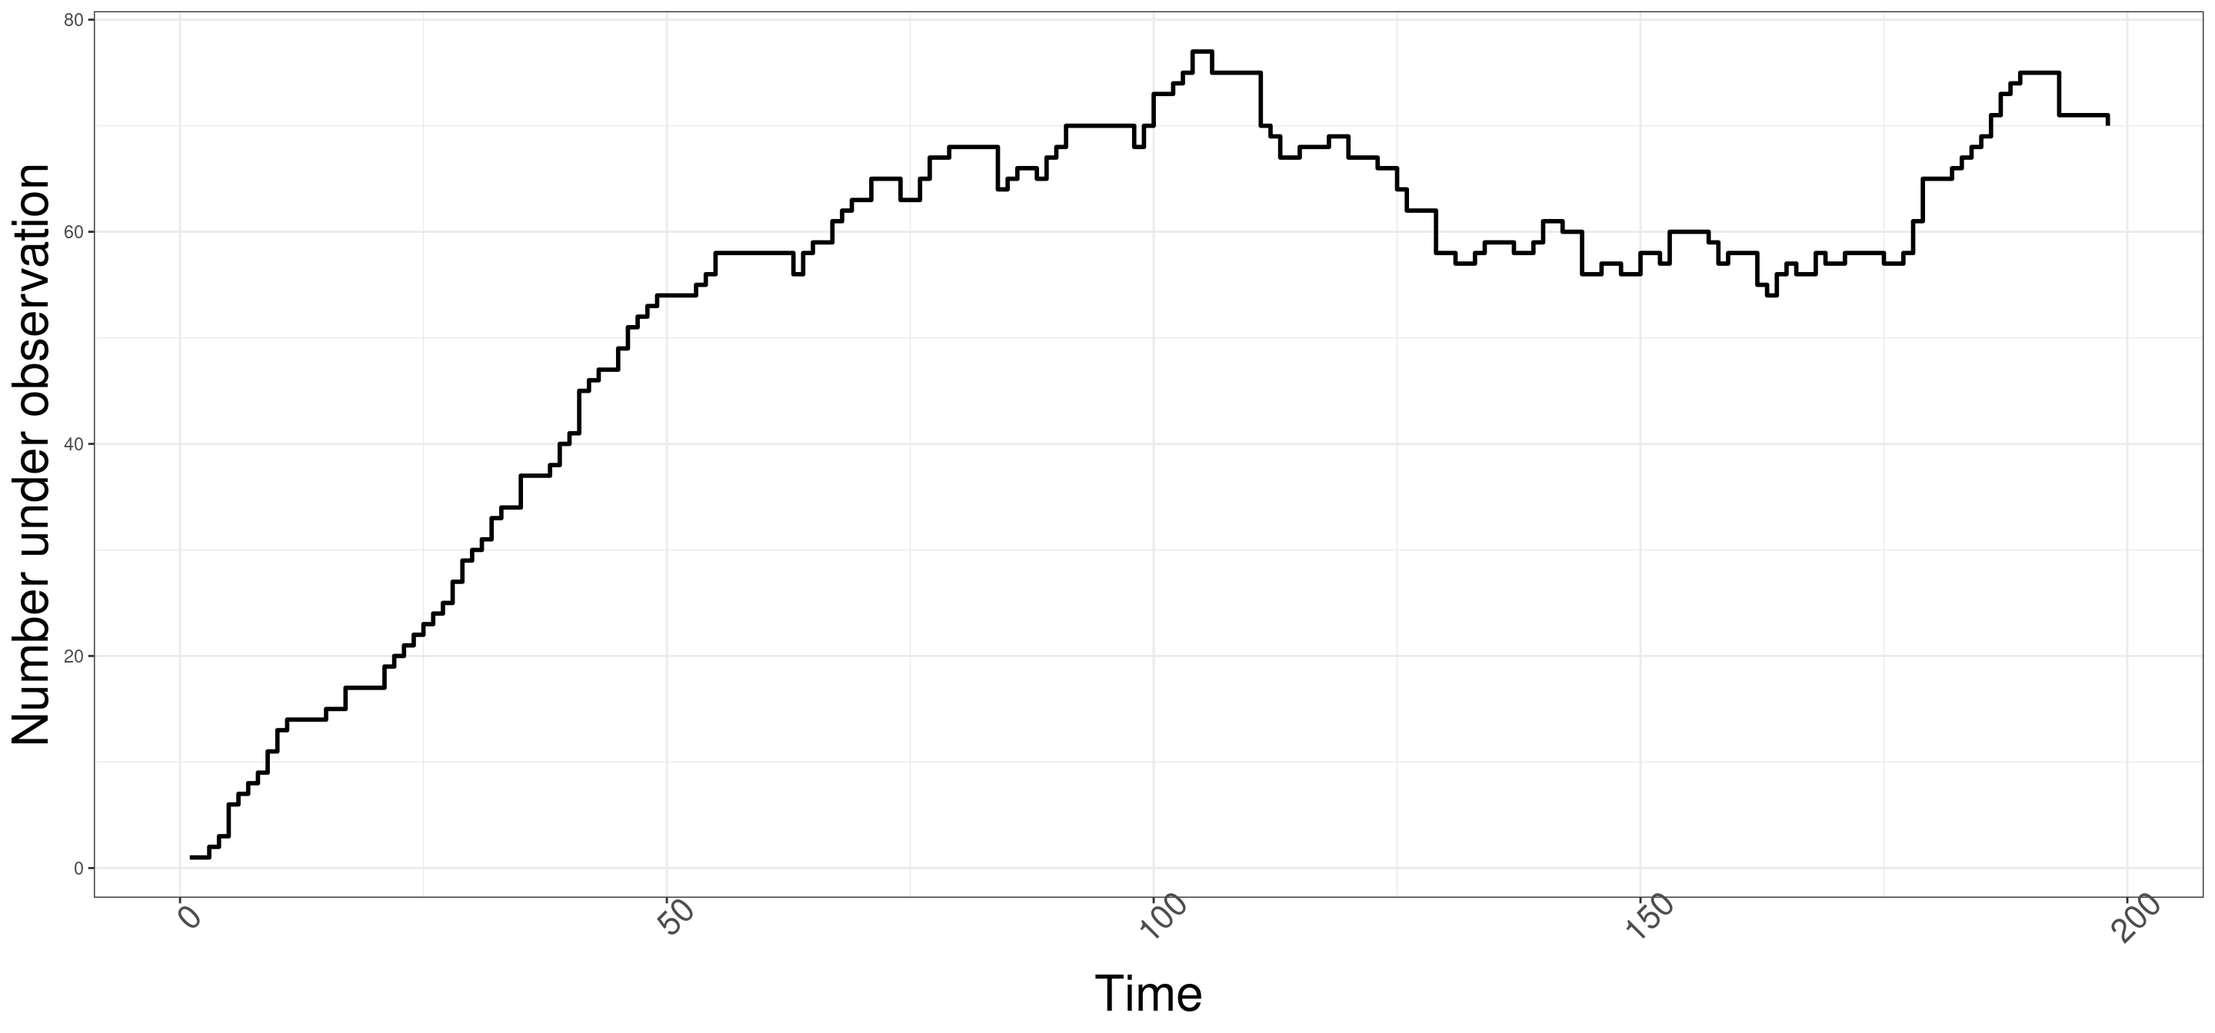
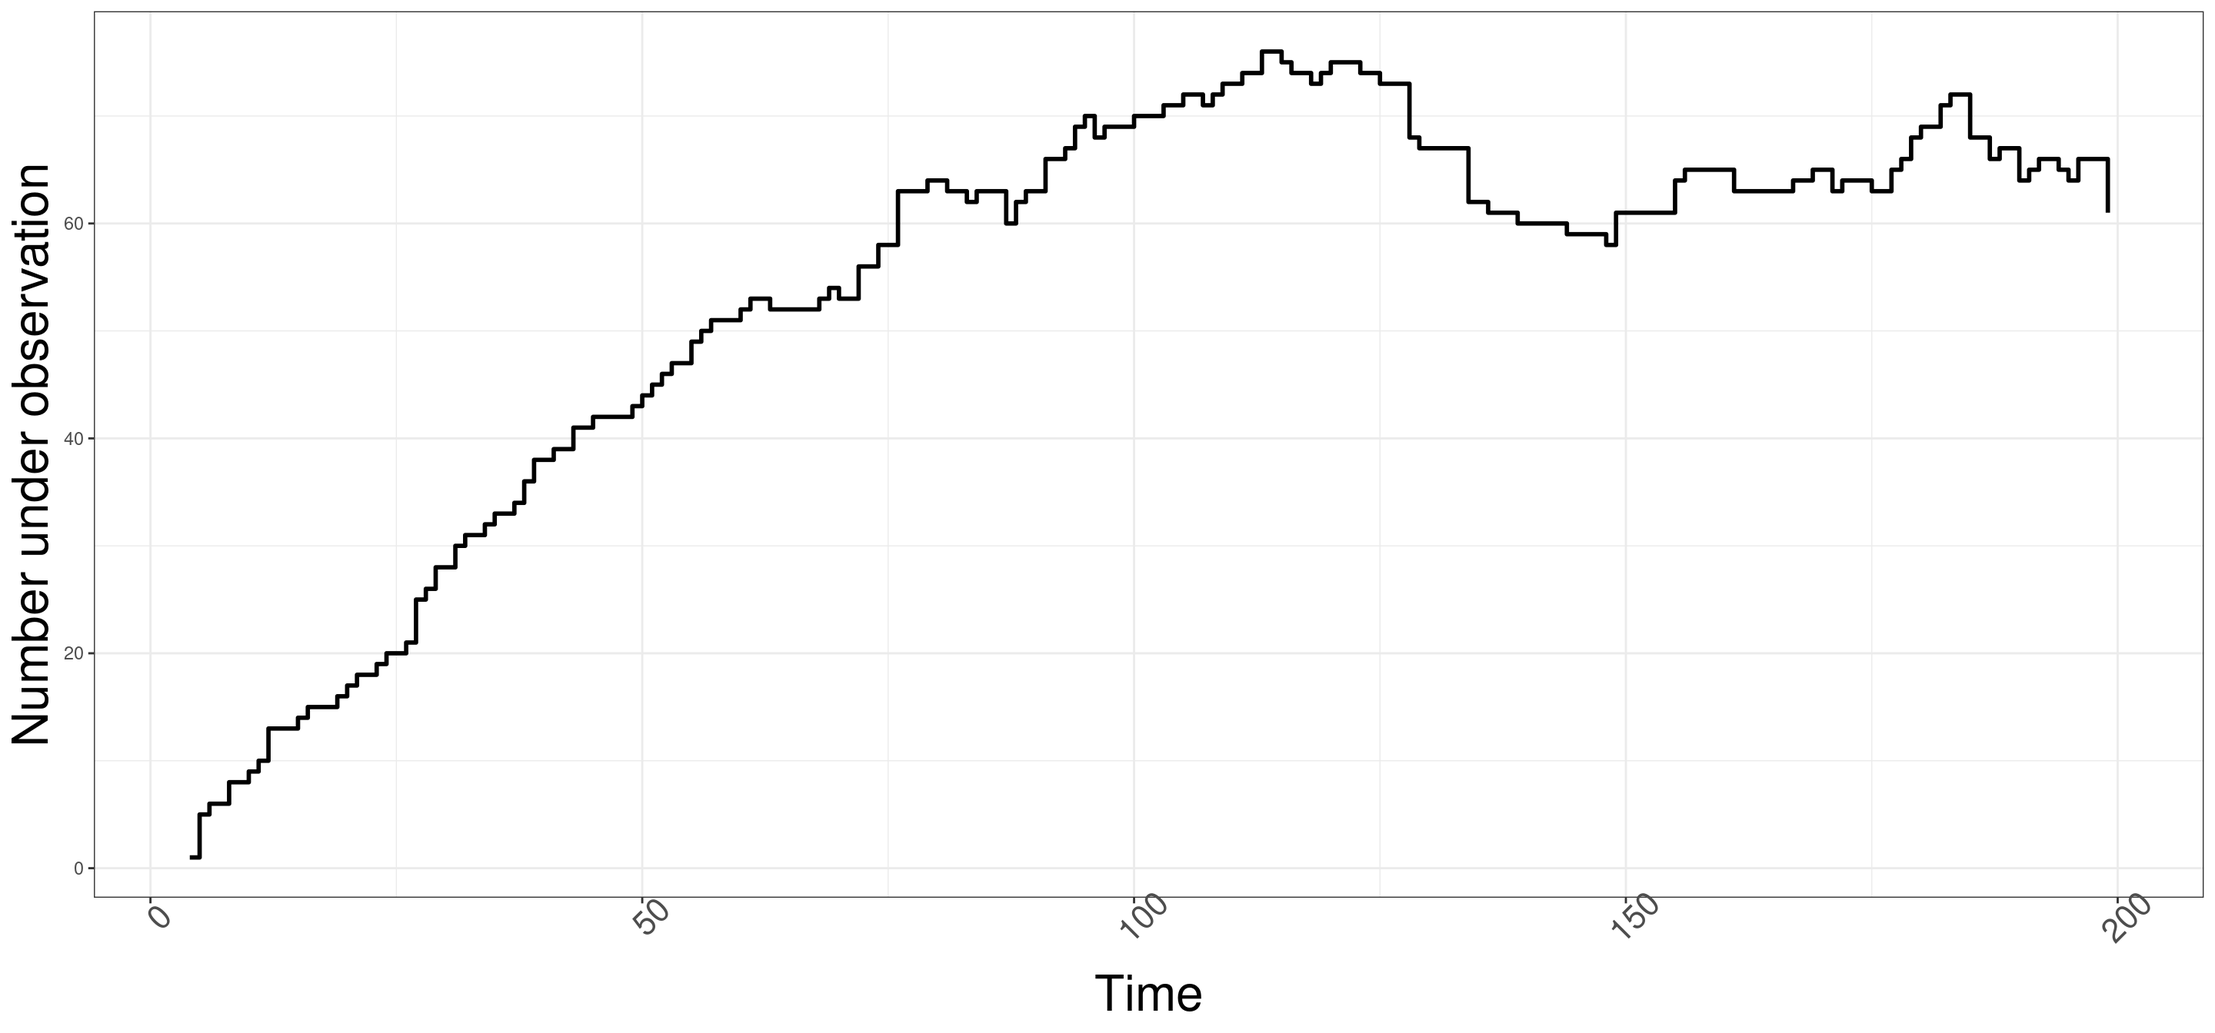
edit language

diff --git a/docs/posts/conditional-aggregation-p1/post.html b/docs/posts/conditional-aggregation-p1/post.html
@@ -184,8 +184,8 @@ pre > code.sourceCode > span > a:first-child::before { text-decoration: underlin
 
 <section id="introduction" class="level1 page-columns page-full">
 <h1>Introduction</h1>
-<p>Life tables are common in actuarial sciences, bio-medical studies, and more generally in the field of survival analysis. They are used to track a dynamic population under observation, one where individuals may enter and leave at different times, and important for computing <strong>at-risk</strong> rates. In this post, we will demonstrate how to calculate simple life tables from data common in longitudinal clinical trials.</p>
-<p>Suppose we have patient data on enrollment start times (beginning of follow-up) and censoring or death times. For simplicity, instead of using R <em>date types</em>, we will represent start and end times with numeric integer. This set up is similar to our first post on <em>gaps and islands</em>.</p>
+<p>Life tables are common in actuarial sciences, bio-medical studies, and more generally in the field of survival analysis. They are used to track a dynamic population over time, one where individuals may enter and leave at different times, and they are important for computing <strong>at-risk</strong> rates. In this post, we will demonstrate how to compute simple life table summaries.</p>
+<p>Suppose we have patient data on enrollment start times and censoring or death times. For simplicity, instead of using R <em>date types</em>, we will represent start and end times as numeric integers. This set up is very similar to our first post on <em>gaps and islands</em>.</p>
 <div class="cell">
 <div class="sourceCode cell-code" id="cb1"><pre class="sourceCode r code-with-copy"><code class="sourceCode r"><span id="cb1-1"><a href="#cb1-1" aria-hidden="true" tabindex="-1"></a><span class="fu">library</span>(tidyverse)</span>
 <span id="cb1-2"><a href="#cb1-2" aria-hidden="true" tabindex="-1"></a><span class="fu">library</span>(knitr)</span>
@@ -212,59 +212,59 @@ pre > code.sourceCode > span > a:first-child::before { text-decoration: underlin
 <tbody>
 <tr class="odd">
 <td style="text-align: right;">1</td>
-<td style="text-align: right;">150</td>
-<td style="text-align: right;">203</td>
+<td style="text-align: right;">105</td>
+<td style="text-align: right;">145</td>
 </tr>
 <tr class="even">
 <td style="text-align: right;">2</td>
-<td style="text-align: right;">157</td>
-<td style="text-align: right;">201</td>
+<td style="text-align: right;">167</td>
+<td style="text-align: right;">222</td>
 </tr>
 <tr class="odd">
 <td style="text-align: right;">3</td>
-<td style="text-align: right;">55</td>
-<td style="text-align: right;">143</td>
+<td style="text-align: right;">56</td>
+<td style="text-align: right;">125</td>
 </tr>
 <tr class="even">
 <td style="text-align: right;">4</td>
-<td style="text-align: right;">65</td>
-<td style="text-align: right;">147</td>
+<td style="text-align: right;">116</td>
+<td style="text-align: right;">170</td>
 </tr>
 <tr class="odd">
 <td style="text-align: right;">5</td>
-<td style="text-align: right;">179</td>
-<td style="text-align: right;">272</td>
+<td style="text-align: right;">87</td>
+<td style="text-align: right;">163</td>
 </tr>
 <tr class="even">
 <td style="text-align: right;">6</td>
-<td style="text-align: right;">23</td>
-<td style="text-align: right;">96</td>
+<td style="text-align: right;">177</td>
+<td style="text-align: right;">211</td>
 </tr>
 <tr class="odd">
 <td style="text-align: right;">7</td>
-<td style="text-align: right;">164</td>
-<td style="text-align: right;">255</td>
+<td style="text-align: right;">103</td>
+<td style="text-align: right;">133</td>
 </tr>
 <tr class="even">
 <td style="text-align: right;">8</td>
-<td style="text-align: right;">116</td>
-<td style="text-align: right;">209</td>
+<td style="text-align: right;">57</td>
+<td style="text-align: right;">144</td>
 </tr>
 <tr class="odd">
 <td style="text-align: right;">9</td>
-<td style="text-align: right;">11</td>
-<td style="text-align: right;">74</td>
+<td style="text-align: right;">23</td>
+<td style="text-align: right;">61</td>
 </tr>
 <tr class="even">
 <td style="text-align: right;">10</td>
-<td style="text-align: right;">165</td>
-<td style="text-align: right;">217</td>
+<td style="text-align: right;">12</td>
+<td style="text-align: right;">87</td>
 </tr>
 </tbody>
 </table>
 </div>
 </div>
-<p>Roughly, we can visualize when new patients enter and when they leave (due to death or censoring or exiting our risk set). Each segment represents a unique patient and their time segment of observation.</p>
+<p>Roughly, we can visualize when new patients enter and when they leave (due to death or censoring or exiting our risk set). Each segment represents a unique patient and their time under observation.</p>
 <div class="cell page-columns page-full">
 <details>
 <summary>Code</summary>
@@ -294,10 +294,10 @@ pre > code.sourceCode > span > a:first-child::before { text-decoration: underlin
 </div>
 </div>
 </div>
-<p>Our goal is to count over time the current number of patients under observation.</p>
-<section id="joining-and-cross-method" class="level2">
-<h2 class="anchored" data-anchor-id="joining-and-cross-method">Joining and cross method</h2>
-<p>In this method, we will highlight the merging operators <code>left_join</code> and <code>cross_join</code> (also known as <em>cartesian</em> joins).</p>
+<p><strong>Our goal is to count over time the current number of patients under observation.</strong></p>
+<section id="grid-method" class="level2">
+<h2 class="anchored" data-anchor-id="grid-method">Grid method</h2>
+<p>Our first solution will highlight the merging operators <code>left_join</code> and <code>cross_join</code> (also known as <em>cartesian</em> join).</p>
 <div class="callout callout-style-default callout-warning callout-titled">
 <div class="callout-header d-flex align-content-center">
 <div class="callout-icon-container">
@@ -311,7 +311,7 @@ Warning
 <p>Cartesian joins can be computationally intensive and slow!</p>
 </div>
 </div>
-<p>First, we pre-define a grid for time points of interest. Suppose we want to asses counts every 60 time units. The Cartesian join will match every row in the left table (our time point reference) to every row in the right table (our patient data). Then for each patient whose observation window intersects with our index time, we add one:</p>
+<p>First, we pre-define a grid of time points over which to compute our counts. Suppose we assess counts every 60 time units. In the code below, the cartesian join will match every row in the left table (our reference grid points) with every row in the right table (our patient data). Then we make an indicator for if the patient’s observation window intersects the grid point, and group by time and sum them up:</p>
 <div class="cell">
 <div class="sourceCode cell-code" id="cb3"><pre class="sourceCode r code-with-copy"><code class="sourceCode r"><span id="cb3-1"><a href="#cb3-1" aria-hidden="true" tabindex="-1"></a>survival_grid <span class="ot">&lt;-</span> <span class="fu">tibble</span>(<span class="at">xtime =</span> <span class="fu">seq</span>(<span class="dv">0</span>, <span class="dv">500</span>, <span class="dv">60</span>))</span>
 <span id="cb3-2"><a href="#cb3-2" aria-hidden="true" tabindex="-1"></a></span>
@@ -340,19 +340,19 @@ Warning
 </tr>
 <tr class="even">
 <td style="text-align: right;">60</td>
-<td style="text-align: right;">58</td>
+<td style="text-align: right;">52</td>
 </tr>
 <tr class="odd">
 <td style="text-align: right;">120</td>
-<td style="text-align: right;">70</td>
+<td style="text-align: right;">75</td>
 </tr>
 <tr class="even">
 <td style="text-align: right;">180</td>
-<td style="text-align: right;">66</td>
+<td style="text-align: right;">69</td>
 </tr>
 <tr class="odd">
 <td style="text-align: right;">240</td>
-<td style="text-align: right;">21</td>
+<td style="text-align: right;">26</td>
 </tr>
 <tr class="even">
 <td style="text-align: right;">300</td>
@@ -362,10 +362,23 @@ Warning
 </table>
 </div>
 </div>
+<div class="callout callout-style-default callout-note callout-titled">
+<div class="callout-header d-flex align-content-center">
+<div class="callout-icon-container">
+<i class="callout-icon"></i>
+</div>
+<div class="callout-title-container flex-fill">
+Note
+</div>
+</div>
+<div class="callout-body-container callout-body">
+<p>Within the cartesian join, observe each patient can only contribute one count towards each grid time point.</p>
+</div>
+</div>
 </section>
-<section id="map-to-the-rescue" class="level2 page-columns page-full">
-<h2 class="anchored" data-anchor-id="map-to-the-rescue">Map to the rescue</h2>
-<p>In this method, we do a rolling count moving through each patient. Eventually we subset on unique entry times where a change in the total population can occur. In particular, at each unique entry time when one or more new patients enroll, we add up the total number of enrollees (a simple row count works here as we cycle through the patient dataset). But we must adjust at each entry the total number lost to death or censoring up to that point. Since more than one patient may enter at the same time, the final numbers in our rolling count appears last by entry times provided we start counting in order from the first entry.</p>
+<section id="approximately-continuous-method-map-to-the-rescue" class="level2 page-columns page-full">
+<h2 class="anchored" data-anchor-id="approximately-continuous-method-map-to-the-rescue">(approximately) Continuous method – Map to the rescue</h2>
+<p>In this method, we do a rolling count moving through each patient. Eventually we subset on unique entry times where a change in the total population can possibly occur. In particular, at each entry time when one or more new patients enroll, we add up the total number of enrollees (a simple row count works here as we cycle through the patient data set). But we must adjust at each entry the total number lost to death or censoring up to that point. As more than one patient may enter at the same time, the final counts appear last when grouped by entry times and provided we start counting in order beginning from the earliest entry.</p>
 <div class="cell">
 <div class="sourceCode cell-code" id="cb4"><pre class="sourceCode r code-with-copy"><code class="sourceCode r"><span id="cb4-1"><a href="#cb4-1" aria-hidden="true" tabindex="-1"></a>N_under_observation <span class="ot">&lt;-</span> </span>
 <span id="cb4-2"><a href="#cb4-2" aria-hidden="true" tabindex="-1"></a>patient_fup_data <span class="sc">|&gt;</span> </span>
@@ -406,6 +419,7 @@ Warning
 </div>
 </div>
 </div>
+<p>There is a caveat with our solution. We are not accounting for exit times that occur <em>between</em> two successive entry times. This might be okay as the total lost will be factored in at the later entry date, but if the time until a new enrollment is long, it can be misleading of the population size at risk, particularly if there was a large drop-off somewhere in-between. Related to this, we are also not seeing when everyone exits (population at risk becomes zero). These should be kept in mind when interpreting and communicating the information presented in the figure.</p>
 
 
 </section>

diff --git a/docs/posts/intro-purrr-map/post.html b/docs/posts/intro-purrr-map/post.html
@@ -690,24 +690,24 @@ Tip
 <dl class="code-annotation-container-grid">
 <dt data-target-cell="annotated-cell-13" data-target-annotation="1">1</dt>
 <dd>
-<span data-code-lines="2" data-code-cell="annotated-cell-13" data-code-annotation="1">Transform the data by processing the variables <em>within patient</em><br>
+<span data-code-cell="annotated-cell-13" data-code-annotation="1" data-code-lines="2">Transform the data by processing the variables <em>within patient</em><br>
 </span>
 </dd>
 <dt data-target-cell="annotated-cell-13" data-target-annotation="2">2</dt>
 <dd>
-<span data-code-lines="4" data-code-cell="annotated-cell-13" data-code-annotation="2">Using <code>map_dbl</code> to make our composite score of <code>X</code> and <code>Y</code>. Its first argument is the <code>VisitDate</code> column — the list of values we want to loop through or use as <em>input values to our user-defined function</em></span>
+<span data-code-cell="annotated-cell-13" data-code-annotation="2" data-code-lines="4">Using <code>map_dbl</code> to make our composite score of <code>X</code> and <code>Y</code>. Its first argument is the <code>VisitDate</code> column — the list of values we want to loop through or use as <em>input values to our user-defined function</em></span>
 </dd>
 <dt data-target-cell="annotated-cell-13" data-target-annotation="3">3</dt>
 <dd>
-<span data-code-lines="5" data-code-cell="annotated-cell-13" data-code-annotation="3">The head of our user-defined function, which will be represented as an anonymous function passed entirely into the <em>second</em> argument of <code>map_dbl</code>. The function is parameterized by the dummy variable <code>.v</code> that will be drawn from the input list</span>
+<span data-code-cell="annotated-cell-13" data-code-annotation="3" data-code-lines="5">The head of our user-defined function, which will be represented as an anonymous function passed entirely into the <em>second</em> argument of <code>map_dbl</code>. The function is parameterized by the dummy variable <code>.v</code> that will be drawn from the input list</span>
 </dd>
 <dt data-target-cell="annotated-cell-13" data-target-annotation="4">4</dt>
 <dd>
-<span data-code-lines="7,10" data-code-cell="annotated-cell-13" data-code-annotation="4">The body of our user-defined anonymous function. Observe it’s a function of the environment variables <code>X</code> and <code>VisitDate</code> scoped from the data.frame context. Note <code>VisitDate</code> used here is independent and different from outer use also in <code>map_dbl</code>!</span>
+<span data-code-cell="annotated-cell-13" data-code-annotation="4" data-code-lines="7,10">The body of our user-defined anonymous function. Observe it’s a function of the environment variables <code>X</code> and <code>VisitDate</code> scoped from the data.frame context. Note <code>VisitDate</code> used here is independent and different from outer use also in <code>map_dbl</code>!</span>
 </dd>
 <dt data-target-cell="annotated-cell-13" data-target-annotation="5">5</dt>
 <dd>
-<span data-code-lines="14" data-code-cell="annotated-cell-13" data-code-annotation="5">Examine the outputs for patients 2 and 8</span>
+<span data-code-cell="annotated-cell-13" data-code-annotation="5" data-code-lines="14">Examine the outputs for patients 2 and 8</span>
 </dd>
 </dl>
 </div>
@@ -934,15 +934,15 @@ Tip
 <dl class="code-annotation-container-grid">
 <dt data-target-cell="annotated-cell-14" data-target-annotation="1">1</dt>
 <dd>
-<span data-code-lines="6" data-code-cell="annotated-cell-14" data-code-annotation="1">30 day average of <code>X</code></span>
+<span data-code-cell="annotated-cell-14" data-code-annotation="1" data-code-lines="6">30 day average of <code>X</code></span>
 </dd>
 <dt data-target-cell="annotated-cell-14" data-target-annotation="2">2</dt>
 <dd>
-<span data-code-lines="10" data-code-cell="annotated-cell-14" data-code-annotation="2">Cumulative maximum of <code>Y</code></span>
+<span data-code-cell="annotated-cell-14" data-code-annotation="2" data-code-lines="10">Cumulative maximum of <code>Y</code></span>
 </dd>
 <dt data-target-cell="annotated-cell-14" data-target-annotation="3">3</dt>
 <dd>
-<span data-code-lines="14" data-code-cell="annotated-cell-14" data-code-annotation="3">Most recent <code>Z</code> within the last 10 days</span>
+<span data-code-cell="annotated-cell-14" data-code-annotation="3" data-code-lines="14">Most recent <code>Z</code> within the last 10 days</span>
 </dd>
 </dl>
 </div>
@@ -1215,7 +1215,7 @@ Important
 <dl class="code-annotation-container-grid">
 <dt data-target-cell="annotated-cell-16" data-target-annotation="1">1</dt>
 <dd>
-<span data-code-lines="7" data-code-cell="annotated-cell-16" data-code-annotation="1">Now our anonymous function filters <code>X</code> using the <code>VisitDate</code> column and the index visit date <code>.v</code>, but does not summarize the vector further. Instead of returning a <code>dbl</code> value at each execution (like <code>map_dbl</code>), it must return back an entire list at each call. Hence, in the end <code>map</code> returns a vector of lists.</span>
+<span data-code-cell="annotated-cell-16" data-code-annotation="1" data-code-lines="7">Now our anonymous function filters <code>X</code> using the <code>VisitDate</code> column and the index visit date <code>.v</code>, but does not summarize the vector further. Instead of returning a <code>dbl</code> value at each execution (like <code>map_dbl</code>), it must return back an entire list at each call. Hence, in the end <code>map</code> returns a vector of lists.</span>
 </dd>
 </dl>
 </div>

diff --git a/docs/posts/gaps-and-islands/post.html b/docs/posts/gaps-and-islands/post.html
@@ -449,23 +449,23 @@ Note
 <dl class="code-annotation-container-grid">
 <dt data-target-cell="annotated-cell-4" data-target-annotation="1">1</dt>
 <dd>
-<span data-code-cell="annotated-cell-4" data-code-annotation="1" data-code-lines="3,4">Proceed left to right systematically (beginning with earliest events). All computations are done <strong>within</strong> individual</span>
+<span data-code-cell="annotated-cell-4" data-code-lines="3,4" data-code-annotation="1">Proceed left to right systematically (beginning with earliest events). All computations are done <strong>within</strong> individual</span>
 </dd>
 <dt data-target-cell="annotated-cell-4" data-target-annotation="2">2</dt>
 <dd>
-<span data-code-cell="annotated-cell-4" data-code-annotation="2" data-code-lines="6">Get the prior event end date. By convention, use the current end if it is the very first event</span>
+<span data-code-cell="annotated-cell-4" data-code-lines="6" data-code-annotation="2">Get the prior event end date. By convention, use the current end if it is the very first event</span>
 </dd>
 <dt data-target-cell="annotated-cell-4" data-target-annotation="3">3</dt>
 <dd>
-<span data-code-cell="annotated-cell-4" data-code-annotation="3" data-code-lines="7">Maximum over all prior end times <em>relative</em> to the current event — but excluding the current interval. Note <code>cummax</code> function does not work on <em>datetypes</em> directly</span>
+<span data-code-cell="annotated-cell-4" data-code-lines="7" data-code-annotation="3">Maximum over all prior end times <em>relative</em> to the current event — but excluding the current interval. Note <code>cummax</code> function does not work on <em>datetypes</em> directly</span>
 </dd>
 <dt data-target-cell="annotated-cell-4" data-target-annotation="4">4</dt>
 <dd>
-<span data-code-cell="annotated-cell-4" data-code-annotation="4" data-code-lines="8">New island indicator</span>
+<span data-code-cell="annotated-cell-4" data-code-lines="8" data-code-annotation="4">New island indicator</span>
 </dd>
 <dt data-target-cell="annotated-cell-4" data-target-annotation="5">5</dt>
 <dd>
-<span data-code-cell="annotated-cell-4" data-code-annotation="5" data-code-lines="9">Accumulator trick to assign island IDs to each date range <strong>within</strong> individual</span>
+<span data-code-cell="annotated-cell-4" data-code-lines="9" data-code-annotation="5">Accumulator trick to assign island IDs to each date range <strong>within</strong> individual</span>
 </dd>
 </dl>
 </div>

diff --git a/docs/blog.html b/docs/blog.html
@@ -174,7 +174,7 @@ ul.task-list li input[type="checkbox"] {
 
 <div class="quarto-listing quarto-listing-container-default" id="listing-listing">
 <div class="list quarto-listing-default">
-<div class="quarto-post image-right" data-index="0" data-listing-date-sort="1712721600000" data-listing-file-modified-sort="1712776632269" data-listing-date-modified-sort="NaN" data-listing-reading-time-sort="4">
+<div class="quarto-post image-right" data-index="0" data-listing-date-sort="1712721600000" data-listing-file-modified-sort="1712782862931" data-listing-date-modified-sort="NaN" data-listing-reading-time-sort="5">
 <div class="thumbnail">
 <p><a href="./posts/conditional-aggregation-p1/post.html"> <p class="card-img-top"><img src="posts/conditional-aggregation-p1/post_files/figure-html/unnamed-chunk-2-1.png"  class="thumbnail-image card-img"/></p> </a></p>
 </div>
